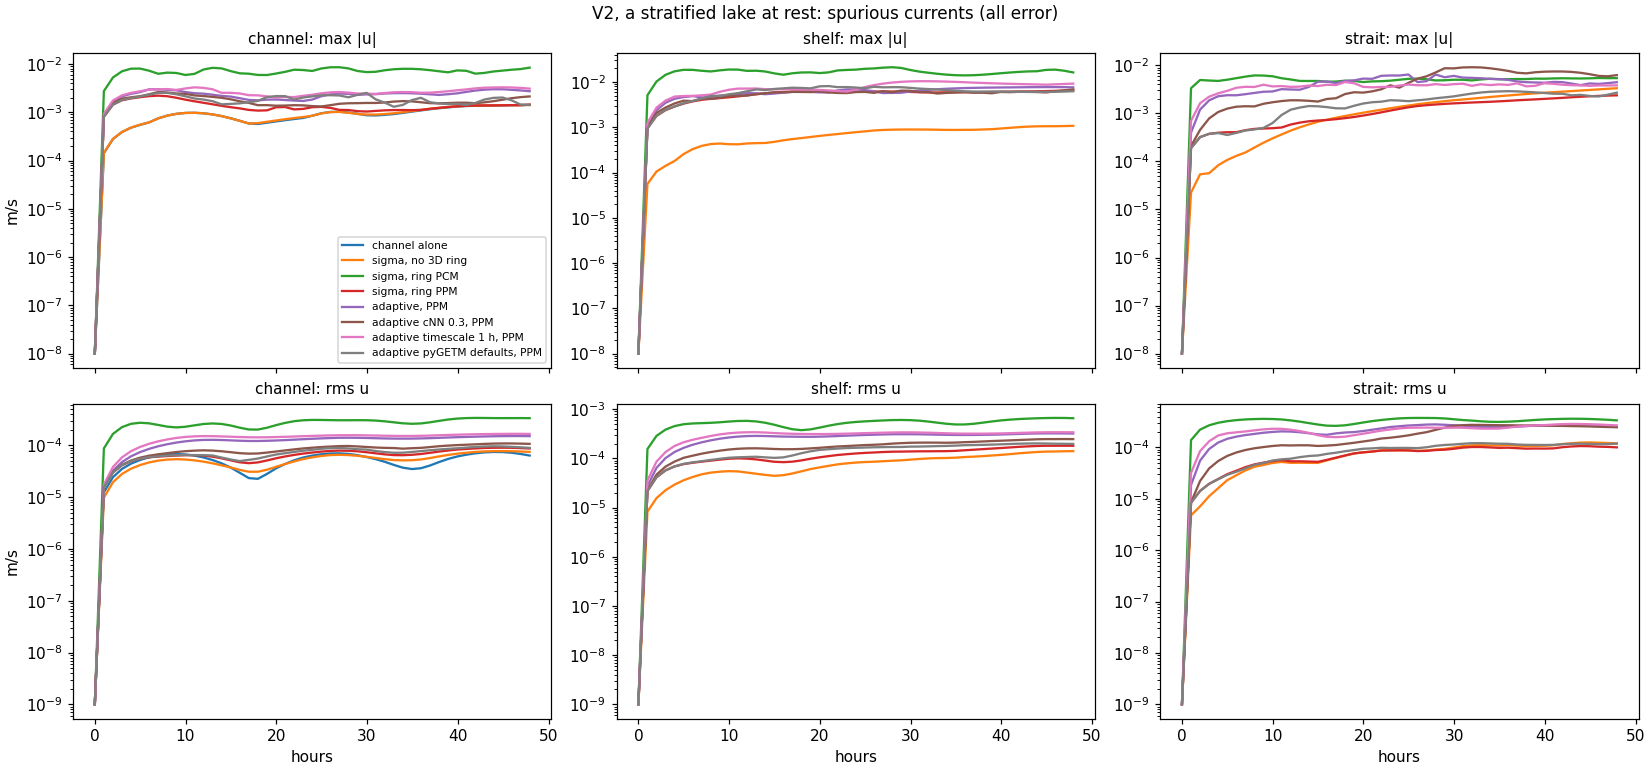
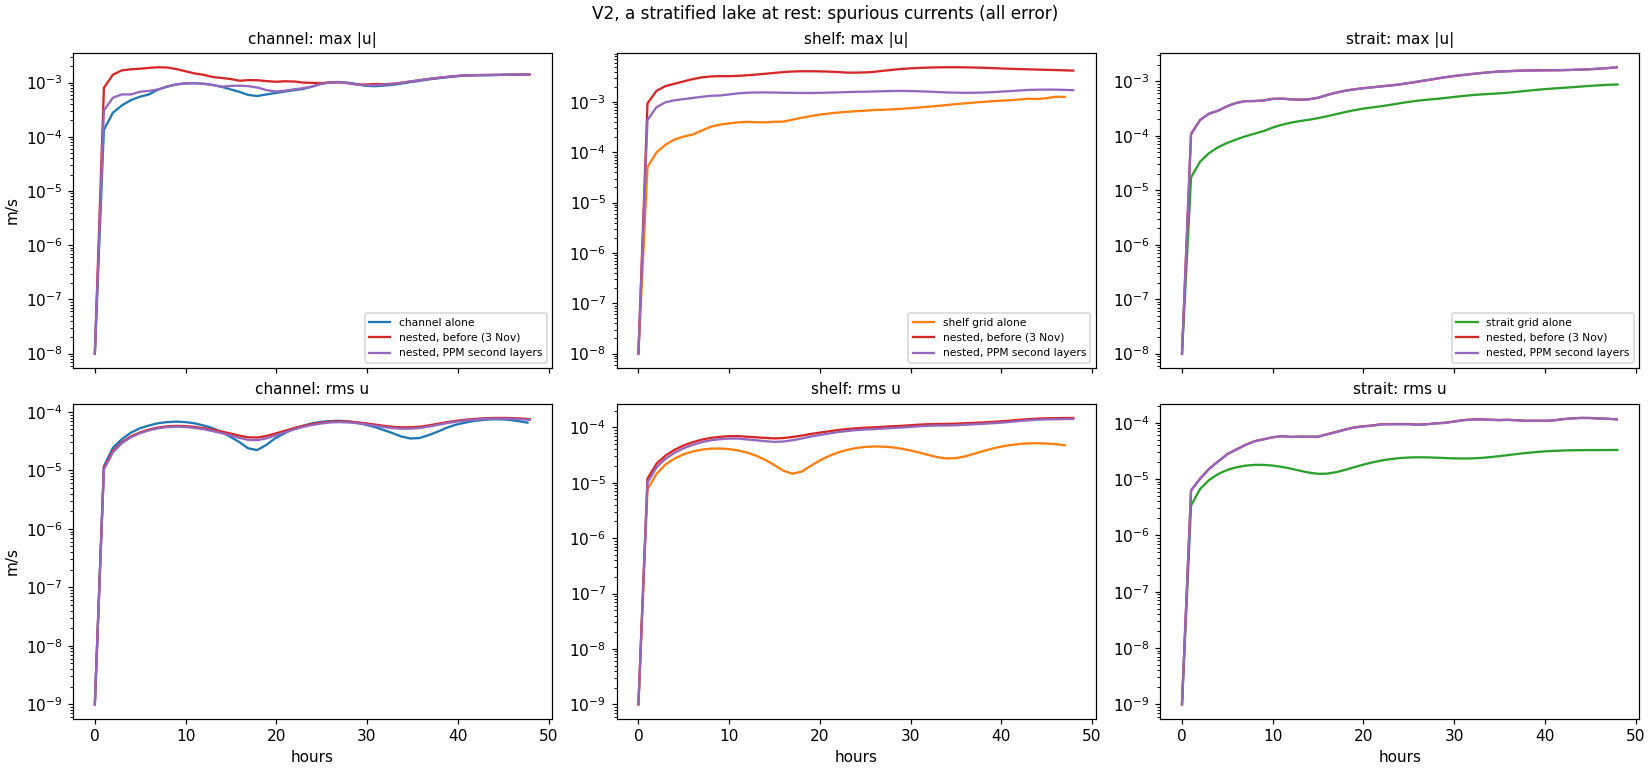
IDEAL V2 against each grid alone; the remap's outer layers (issue ppm-outer-layers); status: drying by layout, V2

diff --git a/issues.html b/issues.html
@@ -196,7 +196,7 @@ h2[id], h3[id] { scroll-margin-top: 4.5rem; }
 <header class="hero"><p class="draft">Issues</p><h1>What went wrong, and how it was found</h1>
 <p class="lede">The problems found while building and testing the nesting: in the coupling, in pyGETM, in the setups and in
 the test cases. Solved ones stay here as a record. The example pages link to the issues that concern them.</p></header>
-<section id="list" class="chapter"><ul><li><a href="#substep">A sub-stepping child is unstable under flux matching</a> <span class="small">(solved; IDEAL, NEAB, 2D)</span></li><li><a href="#damping-dt">pyGETM applied the transport damping with the time step twice</a> <span class="small">(solved; pyGETM, IDEAL)</span></li><li><a href="#hole-cores">Subdomains holding only a child's hole got a core</a> <span class="small">(solved; NEAB, load balancing)</span></li><li><a href="#e8-tiles">One process split differs by 1e-4 m</a> <span class="small">(open; IDEAL, 2D)</span></li><li><a href="#gif">Streaks in the animations</a> <span class="small">(solved; IDEAL)</span></li><li><a href="#rim-content">Exact content in the 3D rim made a uniform field non-uniform</a> <span class="small">(solved; IDEAL, 3D)</span></li><li><a href="#ui-sum">The parent's 3D transport at the interface was 10 % off</a> <span class="small">(solved; IDEAL, 3D, pyGETM)</span></li><li><a href="#layer-flux">Parent and child move different water through each layer of the interface</a> <span class="small">(solved; IDEAL, 3D)</span></li><li><a href="#no-sponge-3d">3D runs need the sponge too</a> <span class="small">(solved; IDEAL, 3D)</span></li><li><a href="#v2-init">Spurious currents at the interfaces in a lake at rest</a> <span class="small">(solved; IDEAL, 3D, test setup)</span></li><li><a href="#ring-vertical">The 3D ring could not carry the child's vertical structure</a> <span class="small">(solved; IDEAL, 3D)</span></li><li><a href="#ring-extrema">The ring's child-detail correction created new extrema</a> <span class="small">(solved; IDEAL, 3D)</span></li><li><a href="#speed-3d">The 3D exchange took a third of a run</a> <span class="small">(open; IDEAL, 3D, speed)</span></li><li><a href="#calibrate-3d">nesting-balance --calibrate counted the 3D waiting as computation</a> <span class="small">(solved; nesting-balance, 3D, speed)</span></li><li><a href="#balance-split">nesting-balance gave every IDEAL level split 1</a> <span class="small">(solved; nesting-balance, 3D, speed)</span></li><li><a href="#fabm-burn">The emulated FABM load fed waiting back into itself</a> <span class="small">(solved; IDEAL, 3D, speed)</span></li><li><a href="#dkm-z0">DKm runs with the wrong bottom roughness</a> <span class="small">(solved; DKm)</span></li><li><a href="#tpxo-coast">TPXO9 at the coast: wet nodes without constants</a> <span class="small">(solved; reference data)</span></li><li><a href="#neab-skagerrak">NEAB's tide east of the Skagerrak amphidrome is twice too large</a> <span class="small">(open; NEAB, DKm)</span></li><li><a href="#ring-below-bed">A child's ring below its own bed on a drying flat</a> <span class="small">(solved; IDEAL, 2D, drying)</span></li><li><a href="#faces-over-closed">Parent faces open while the child's sub-faces are all closed</a> <span class="small">(solved; masks, NEAB, DKm)</span></li><li><a href="#restart-2d">pyGETM's 2D restart with open boundaries was not exact</a> <span class="small">(solved; pyGETM, restart)</span></li><li><a href="#restart-nested">A nested run does not yet restart bit-identically</a> <span class="small">(open; restart)</span></li></ul></section>
+<section id="list" class="chapter"><ul><li><a href="#substep">A sub-stepping child is unstable under flux matching</a> <span class="small">(solved; IDEAL, NEAB, 2D)</span></li><li><a href="#damping-dt">pyGETM applied the transport damping with the time step twice</a> <span class="small">(solved; pyGETM, IDEAL)</span></li><li><a href="#hole-cores">Subdomains holding only a child's hole got a core</a> <span class="small">(solved; NEAB, load balancing)</span></li><li><a href="#e8-tiles">One process split differs by 1e-4 m</a> <span class="small">(open; IDEAL, 2D)</span></li><li><a href="#gif">Streaks in the animations</a> <span class="small">(solved; IDEAL)</span></li><li><a href="#rim-content">Exact content in the 3D rim made a uniform field non-uniform</a> <span class="small">(solved; IDEAL, 3D)</span></li><li><a href="#ui-sum">The parent's 3D transport at the interface was 10 % off</a> <span class="small">(solved; IDEAL, 3D, pyGETM)</span></li><li><a href="#layer-flux">Parent and child move different water through each layer of the interface</a> <span class="small">(solved; IDEAL, 3D)</span></li><li><a href="#no-sponge-3d">3D runs need the sponge too</a> <span class="small">(solved; IDEAL, 3D)</span></li><li><a href="#v2-init">Spurious currents at the interfaces in a lake at rest</a> <span class="small">(solved; IDEAL, 3D, test setup)</span></li><li><a href="#ring-vertical">The 3D ring could not carry the child's vertical structure</a> <span class="small">(solved; IDEAL, 3D)</span></li><li><a href="#ppm-outer-layers">The remap's outer layers were constant</a> <span class="small">(solved; IDEAL, 3D)</span></li><li><a href="#ring-extrema">The ring's child-detail correction created new extrema</a> <span class="small">(solved; IDEAL, 3D)</span></li><li><a href="#speed-3d">The 3D exchange took a third of a run</a> <span class="small">(open; IDEAL, 3D, speed)</span></li><li><a href="#calibrate-3d">nesting-balance --calibrate counted the 3D waiting as computation</a> <span class="small">(solved; nesting-balance, 3D, speed)</span></li><li><a href="#balance-split">nesting-balance gave every IDEAL level split 1</a> <span class="small">(solved; nesting-balance, 3D, speed)</span></li><li><a href="#fabm-burn">The emulated FABM load fed waiting back into itself</a> <span class="small">(solved; IDEAL, 3D, speed)</span></li><li><a href="#dkm-z0">DKm runs with the wrong bottom roughness</a> <span class="small">(solved; DKm)</span></li><li><a href="#tpxo-coast">TPXO9 at the coast: wet nodes without constants</a> <span class="small">(solved; reference data)</span></li><li><a href="#neab-skagerrak">NEAB's tide east of the Skagerrak amphidrome is twice too large</a> <span class="small">(open; NEAB, DKm)</span></li><li><a href="#ring-below-bed">A child's ring below its own bed on a drying flat</a> <span class="small">(solved; IDEAL, 2D, drying)</span></li><li><a href="#faces-over-closed">Parent faces open while the child's sub-faces are all closed</a> <span class="small">(solved; masks, NEAB, DKm)</span></li><li><a href="#restart-2d">pyGETM's 2D restart with open boundaries was not exact</a> <span class="small">(solved; pyGETM, restart)</span></li><li><a href="#restart-nested">A nested run does not yet restart bit-identically</a> <span class="small">(open; restart)</span></li></ul></section>
 <section class="chapter"><div class="issue" id="substep"><h3>A sub-stepping child is unstable under flux matching</h3><div class="tags"><span class="solved">solved</span><span>IDEAL</span><span>NEAB</span><span>2D</span></div>
 <p><strong>Seen:</strong> IDEAL E2. The volume was conserved to 2e-16, yet the strait level grew to 23 m within 12 h.</p>
 <p><strong>What triggers it:</strong> switching parts off one at a time showed the combination of</p>
@@ -294,6 +294,21 @@ from 10 onto 20 layers across a 3 m pycnocline its error is 0.11 °C against 0.7
 6.5 mm/s on the shelf and from 8.6 to 2.2 mm/s in the channel (single model 1.4 mm/s), and the pycnocline moves 0.03 m
 instead of 0.16 m. What is left is largest on the shelf over the slope; a relaxation of the 3D ring values (a sponge for
 the scalars) is the next thing to try if it matters.</p></div></section>
+<section class="chapter"><div class="issue" id="ppm-outer-layers"><h3>The remap's outer layers were constant</h3><div class="tags"><span class="solved">solved</span><span>IDEAL</span><span>3D</span></div>
+<p><strong>Seen:</strong> IDEAL V2 (a lake at rest), measured against each level's grid run alone with the same setup: the
+coupling added 1.4x the single grid's spurious current in the channel, 3.9x on the shelf and 2.1x in the strait. Without the
+3D ring the shelf was at the single grid's level. The shelf's maximum sat at its east interface, where the water is 20 m deep
+and the pycnocline at 15 m lies in the bottom layers.</p>
+<p><strong>Cause:</strong> even at rest the ring's temperature was 0.010-0.016 °C off the child's own layer means there. The ring
+is built from the child's adjacent column (20.125 m deep), remapped onto the ring column (20.0 m), and the
+<a href="#ring-vertical">PPM reconstruction</a> kept the outer two layers at each end constant. A 0.12 m shift of the sigma
+interfaces inside a constant layer, against a gradient of about 1 °C/m, gives that error.</p>
+<p><strong>Fix:</strong> the second layer from each end gets a parabola too, its outer edge linear between the two layer means
+(still no new extrema; numpy and the compiled kernel alike, fork <code>11c0709</code>). The ring error drops to 0.006 °C, and the
+spurious currents to 1.0x the single grid in the channel, 1.4x on the shelf and 2.1x in the strait. V5 and V6 are unchanged
+(pycnocline depth within 1.3 cm rms, the same extrema), heat in a closed basin is conserved to 5e-11 and a uniform field stays
+uniform to 3e-13. The strait's maximum is one face where the wall meets its west interface: a corner, like the wall's gap that
+is the single grids' own maximum.</p></div></section>
 <section class="chapter"><div class="issue" id="ring-extrema"><h3>The ring's child-detail correction created new extrema</h3><div class="tags"><span class="solved">solved</span><span>IDEAL</span><span>3D</span></div>
 <p><strong>Seen:</strong> IDEAL V6. A dye that starts at exactly 0 and 1 reaches 1 + 3.6e-4 on the shelf and −1.2e-4 in the strait.</p>
 <p><strong>Cause:</strong> the ring's child-detail correction (<a href="#ring-vertical">added for V2</a>) is an addition: the child's

diff --git a/ideal.html b/ideal.html
@@ -194,7 +194,7 @@ h2[id], h3[id] { scroll-margin-top: 4.5rem; }
 <nav class="subnav" aria-label="On this page"><a href="#layout">Layout</a><a href="#twod">2D</a><a href="#drying">2D drying</a><a href="#threed">3D</a><a href="#v2">Lake at rest</a><a href="#v5">Pycnocline over a slope</a><a href="#v6">Dye front</a><a href="#v7">Cost</a></nav>
 <details class="toc" open><summary>Contents</summary><ol><li><a href="#a-channel-a-shelf-and-a-strait">A channel, a shelf and a strait</a><li><a href="#the-barotropic-experiments">The barotropic experiments</a><ol class="toc-sub"><li><a href="#nested-against-one-level-at-333-m-everywhere">Nested against one level at 333 m everywhere</a></li></ol><li><a href="#a-tidal-flat-across-an-interface">A tidal flat across an interface</a><li><a href="#temperature-with-a-different-number-of-layers-pe">Temperature, with a different number of layers per level</a><ol class="toc-sub"><li><a href="#3d-velocities-in-the-child-s-ring">3D velocities in the child's ring</a></li></ol><li><a href="#a-stratified-lake-at-rest">A stratified lake at rest</a><li><a href="#a-pycnocline-over-the-shelf-slope">A pycnocline over the shelf slope</a><li><a href="#a-dye-front-through-the-levels">A dye front through the levels</a><li><a href="#what-the-3d-exchange-costs">What the 3D exchange costs</a><ol class="toc-sub"><li><a href="#v7-kernel">A compiled remap kernel</a></li></ol></ol></details>
 <header class="hero">
-  <p class="draft">Under development · updated 3 November 2026</p>
+  <p class="draft">Under development · updated 4 November 2026</p>
   <h1>IDEAL: three nested levels with known answers</h1>
   <p class="lede">A Cartesian channel with an analytic depth and three nested pyGETM levels, 3 km, 1 km and
   333 m, with every feature of the nesting placed on purpose. It is where the two-way nesting for pyGETM is
@@ -326,7 +326,21 @@ and the shelf and strait in sigma or in adaptive layers that zoom on the stratif
 <p>pyGETM's adaptive coordinates have about 25 parameters, all off by default except the pull towards the background
 grid; none of them have been tuned here. The runs use zooming on the density gradient (cNN 1, drho 0.3), a neighbour
 limit (cneigh 0.1), a shallow-water limit (chmin 0.1, hmin 0.3 m) and a time scale of 3 h, plus three variations.</p>
-<div class="tablewrap num"><table><thead><tr><th>48 h, all levels from consistent layer means</th><th>max |u| channel</th><th>shelf</th><th>strait</th><th>pycnocline moved (shelf)</th></tr></thead><tbody>
+<p><strong>The fair reference</strong> for each level is its own grid run alone with the same setup: the error of sigma layers over
+a slope depends on the resolution. In 48 h (sigma layers; max |u| over the cells each level computes):</p>
+<div class="tablewrap num"><table><thead><tr><th>48 h, sigma</th><th>channel</th><th>shelf</th><th>strait</th></tr></thead><tbody>
+<tr><td>each grid alone (single model)</td><td>1.42 mm/s</td><td>1.26 mm/s</td><td>0.87 mm/s</td></tr>
+<tr><td>nested, without the 3D ring</td><td>1.42 mm/s</td><td>1.08 mm/s</td><td>3.43 mm/s</td></tr>
+<tr><td>nested, ring with PPM (3 Nov)</td><td>1.92 mm/s (1.4x)</td><td>4.87 mm/s (3.9x)</td><td>1.80 mm/s (2.1x)</td></tr>
+<tr><td><strong>nested, PPM in the second layers too (now)</strong></td><td><strong>1.41 mm/s (1.0x)</strong></td><td><strong>1.75 mm/s (1.4x)</strong></td><td><strong>1.81 mm/s (2.1x)</strong></td></tr>
+</tbody></table></div>
+<p>The error that was left came from the shelf's east interface, where the water is 20 m deep and the pycnocline lies in the
+bottom layers: the remap kept the two outermost layers at each end constant, which put the ring 0.01-0.02 °C off the child's
+own profile even at rest (<a href="issues.html#ppm-outer-layers">issue</a>). With a parabola in the second layers too the channel
+is at its single-grid level and the shelf at 1.4 times. The strait's maximum is a single face where the wall meets its west
+interface, a corner like the wall's gap that is the single grids' own maximum; it grows slowly in all runs.</p>
+<p class="small">Earlier steps, against the channel alone (1.4 mm/s) and with the shelf and strait in sigma or adaptive layers:</p>
+<div class="tablewrap num"><table><thead><tr><th>48 h, all levels from consistent layer means (before 4 Nov)</th><th>max |u| channel</th><th>shelf</th><th>strait</th><th>pycnocline moved (shelf)</th></tr></thead><tbody>
 <tr><td>the channel alone (single model, same step)</td><td>1.4 mm/s</td><td>–</td><td>–</td><td>–</td></tr>
 <tr><td>nested, sigma, without the 3D ring</td><td>1.4 mm/s</td><td>1.1 mm/s</td><td>3.3 mm/s</td><td>0.01 m</td></tr>
 <tr><td>nested, sigma, ring from the parent</td><td>16 mm/s</td><td>32 mm/s</td><td>12 mm/s</td><td>0.34 m</td></tr>
@@ -345,9 +359,9 @@ in the remap cuts them by another factor of 3, and the displacement of the pycno
 1.6 times the single model's error, the strait at the level of the run without a 3D ring, and the shelf, where the slope
 is, at about 6 times. The adaptive layers do not improve on sigma here; their parameters change the result by less than
 a factor of 1.5. A scan of them against a real case (V5) comes next.</p>
-<figure class="fig wide"><button class="plate" type="button" data-full="fig/ideal/3d/v2_speed.png" aria-label="Open Spurious currents over time full size"><img src="fig/ideal/3d/v2_speed.png" alt="Spurious currents over time" loading="lazy"></button><figcaption><strong>Spurious currents over time</strong><p>Max |u| and rms u per level for every run; the channel alone in blue.</p></figcaption></figure>
-<figure class="fig wide"><button class="plate" type="button" data-full="fig/ideal/3d/v2_maps.png" aria-label="Open Where they are full size"><img src="fig/ideal/3d/v2_maps.png" alt="Where they are" loading="lazy"></button><figcaption><strong>Where they are</strong><p>Max |u| in the water column after 48 h: the channel alone, the ring with PCM, with PPM (sigma), and with PPM in adaptive layers.</p></figcaption></figure>
-<p class="seeissues">Issues found and solved along the way: <a href="issues.html#v2-init">Spurious currents at the interfaces in a lake at rest</a>, <a href="issues.html#ring-vertical">The 3D ring could not carry the child's vertical structure</a>.</p>
+<figure class="fig wide"><button class="plate" type="button" data-full="fig/ideal/3d/v2_speed.png" aria-label="Open Spurious currents over time full size"><img src="fig/ideal/3d/v2_speed.png" alt="Spurious currents over time" loading="lazy"></button><figcaption><strong>Spurious currents over time</strong><p>Max |u| and rms u per level: each grid alone, nested before and after the change of the remap (sigma layers).</p></figcaption></figure>
+<figure class="fig wide"><button class="plate" type="button" data-full="fig/ideal/3d/v2_maps.png" aria-label="Open Where they are full size"><img src="fig/ideal/3d/v2_maps.png" alt="Where they are" loading="lazy"></button><figcaption><strong>Where they are</strong><p>Max |u| in the water column after 48 h, nested in sigma layers, before and after the change of the remap.</p></figcaption></figure>
+<p class="seeissues">Issues found and solved along the way: <a href="issues.html#v2-init">Spurious currents at the interfaces in a lake at rest</a>, <a href="issues.html#ring-vertical">The 3D ring could not carry the child's vertical structure</a>, <a href="issues.html#ppm-outer-layers">The remap's outer layers were constant</a>.</p>
 </section>
 <section id="v5" class="chapter"><header class="chap"><span class="eyebrow">3D · V5</span><h2 id="a-pycnocline-over-the-shelf-slope">A pycnocline over the shelf slope</h2></header>
 <p class="lede">Does the nesting move a pycnocline correctly across the interfaces? The bottom slopes from 50 to 10 m across the

diff --git a/status.html b/status.html
@@ -205,8 +205,9 @@ h2[id], h3[id] { scroll-margin-top: 4.5rem; }
 <li>3D: temperature and salinity between levels with different vertical grids: rim, ring, 3D transports, ring
 velocities and the 3D flux register; heat conserved to 1e-9.</li></ul></div>
 <div><h4>In progress</h4><ul>
-<li>IDEAL V2, a stratified lake at rest: with PPM in the remap the coupling adds 1.6× the single model's error in the
-channel and about 6× on the shelf over the slope.</li>
+<li><a href="ideal.html#v2">IDEAL V2</a>, a stratified lake at rest, against each level's grid run alone: after
+<a href="issues.html#ppm-outer-layers">a fix of the remap's outer layers</a> the coupling adds nothing in the channel, 1.4× on the
+shelf and 2.1× in the strait (one face where a wall meets the interface; being looked at).</li>
 <li>IDEAL V5, a pycnocline over the shelf slope against one level at 333 m: within 8–13 cm of pycnocline depth in every
 level, mostly from the coarser levels' layers.</li>
 <li>IDEAL V6, a dye front through the levels: conserved to 4e-9; new extrema 1e-5 in the children after limiting the ring
@@ -214,8 +215,9 @@ correction, 2e-4 in the parent from the flux correction.</li>
 <li>IDEAL V7, the cost: with the compiled remap kernel (15× faster than numpy) the 3D exchange is 4–9 % of a run with T and S,
 8–17 % with 14 tracers, 3–8 % with 32 tracers and a FABM-like load; with that load the balanced split is 5–9 % faster than the uniform one.</li>
 <li>The fork follows pyGETM v0.9.29 (merged 3 November 2026).</li>
-<li><a href="ideal.html#drying">Drying and flooding at an interface</a>: the ring's elevation and transports follow pyGETM's
-drying; IDEAL's flat across an interface conserves volume. Next: the parent's side, the sponge and the 3D ring.</li>
+<li><a href="ideal.html#drying">Drying and flooding</a>: layouts keep the interfaces out of water that floods and dries
+(<code>interface_min_depth</code>, checked at start-up); drying happens inside a level. In 2D the coupling also handles a flat
+across an interface (a safety net). In 3D pyGETM itself needs a small bottom roughness on flats (z0 ≈ 0.001 m).</li>
 <li>Restart of a nested run: pyGETM's 2D restart is now exact, the nesting's state is in the restart files;
 <a href="issues.html#restart-nested">not yet bit-identical</a>.</li></ul></div>
 <div><h4>Open</h4><ul>
@@ -224,7 +226,6 @@ drying; IDEAL's flat across an interface conserves volume. Next: the parent's si
 <li>Limited slopes and time interpolation in the 3D ring.</li>
 <li>Interfaces between sibling children that touch (when a setup needs them).</li>
 <li>Adaptive vertical coordinates (last; GVC and SIGMA until then).</li>
-<li>The 3D coupling error of the lake at rest (V2).</li>
 <li>Running a single model with its boundaries from a file.</li>
 <li><a href="issues.html#e8-tiles">One process split in IDEAL E8</a> (1e-4 m).</li></ul></div>
 </div>
